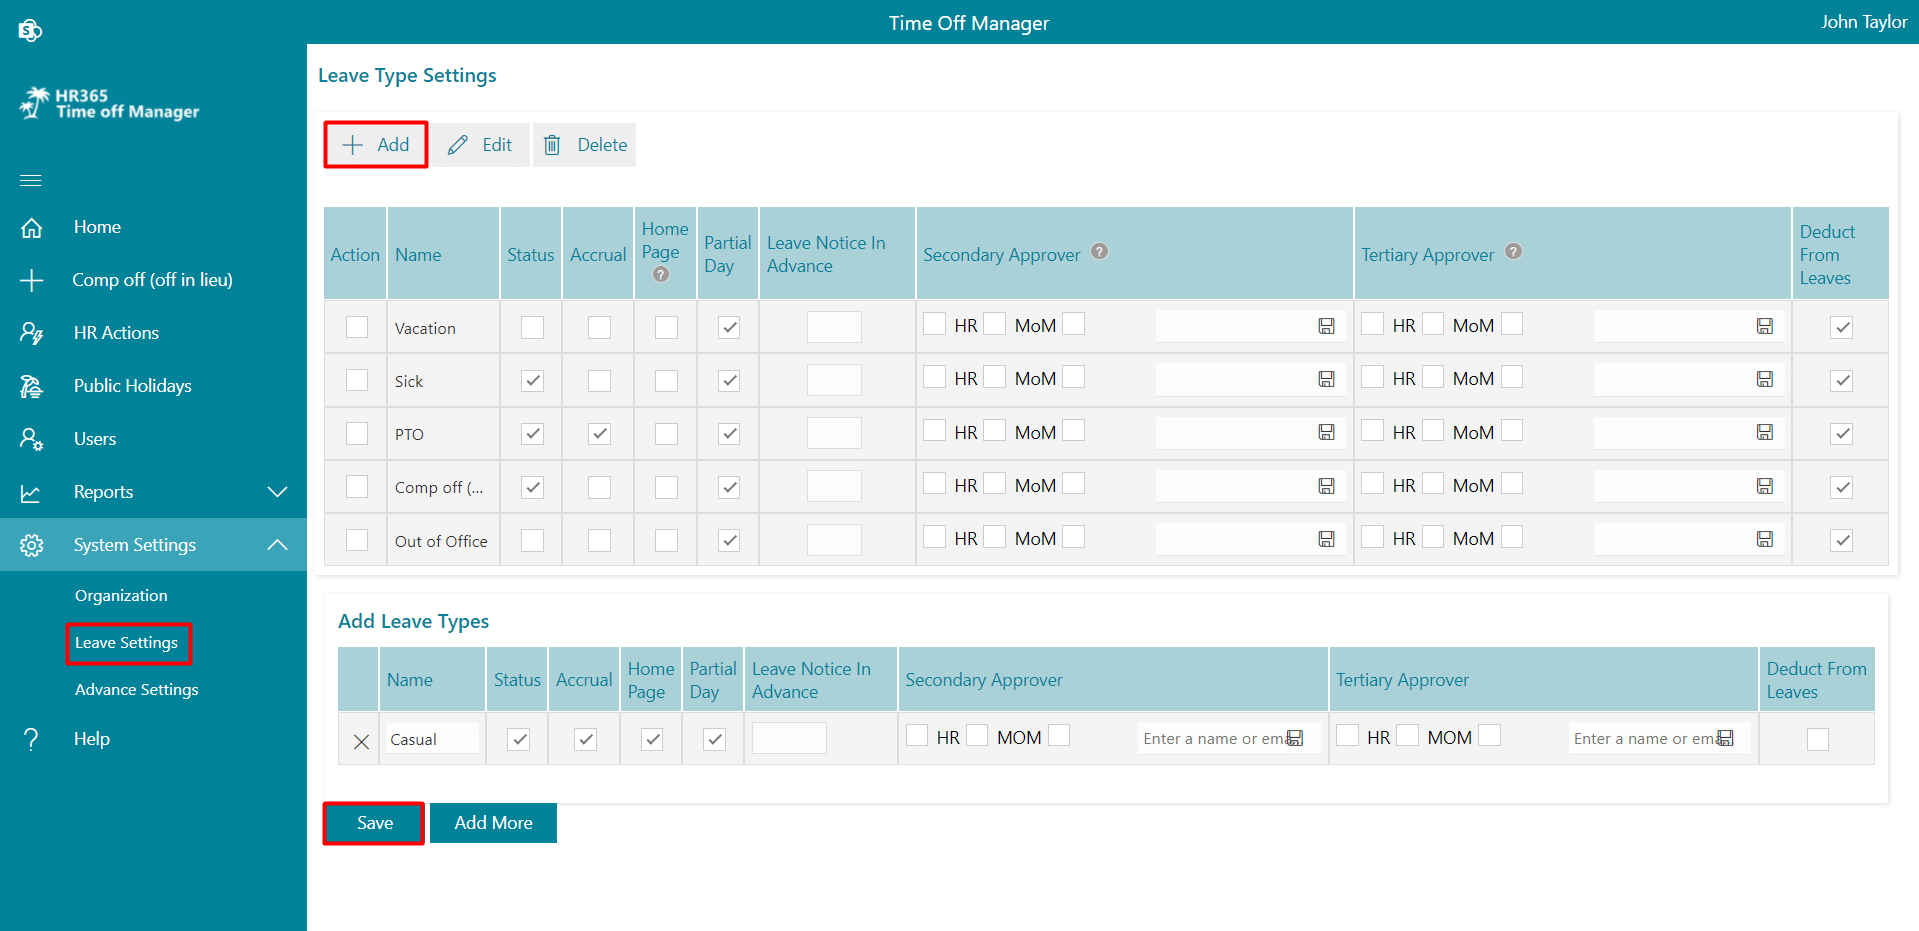
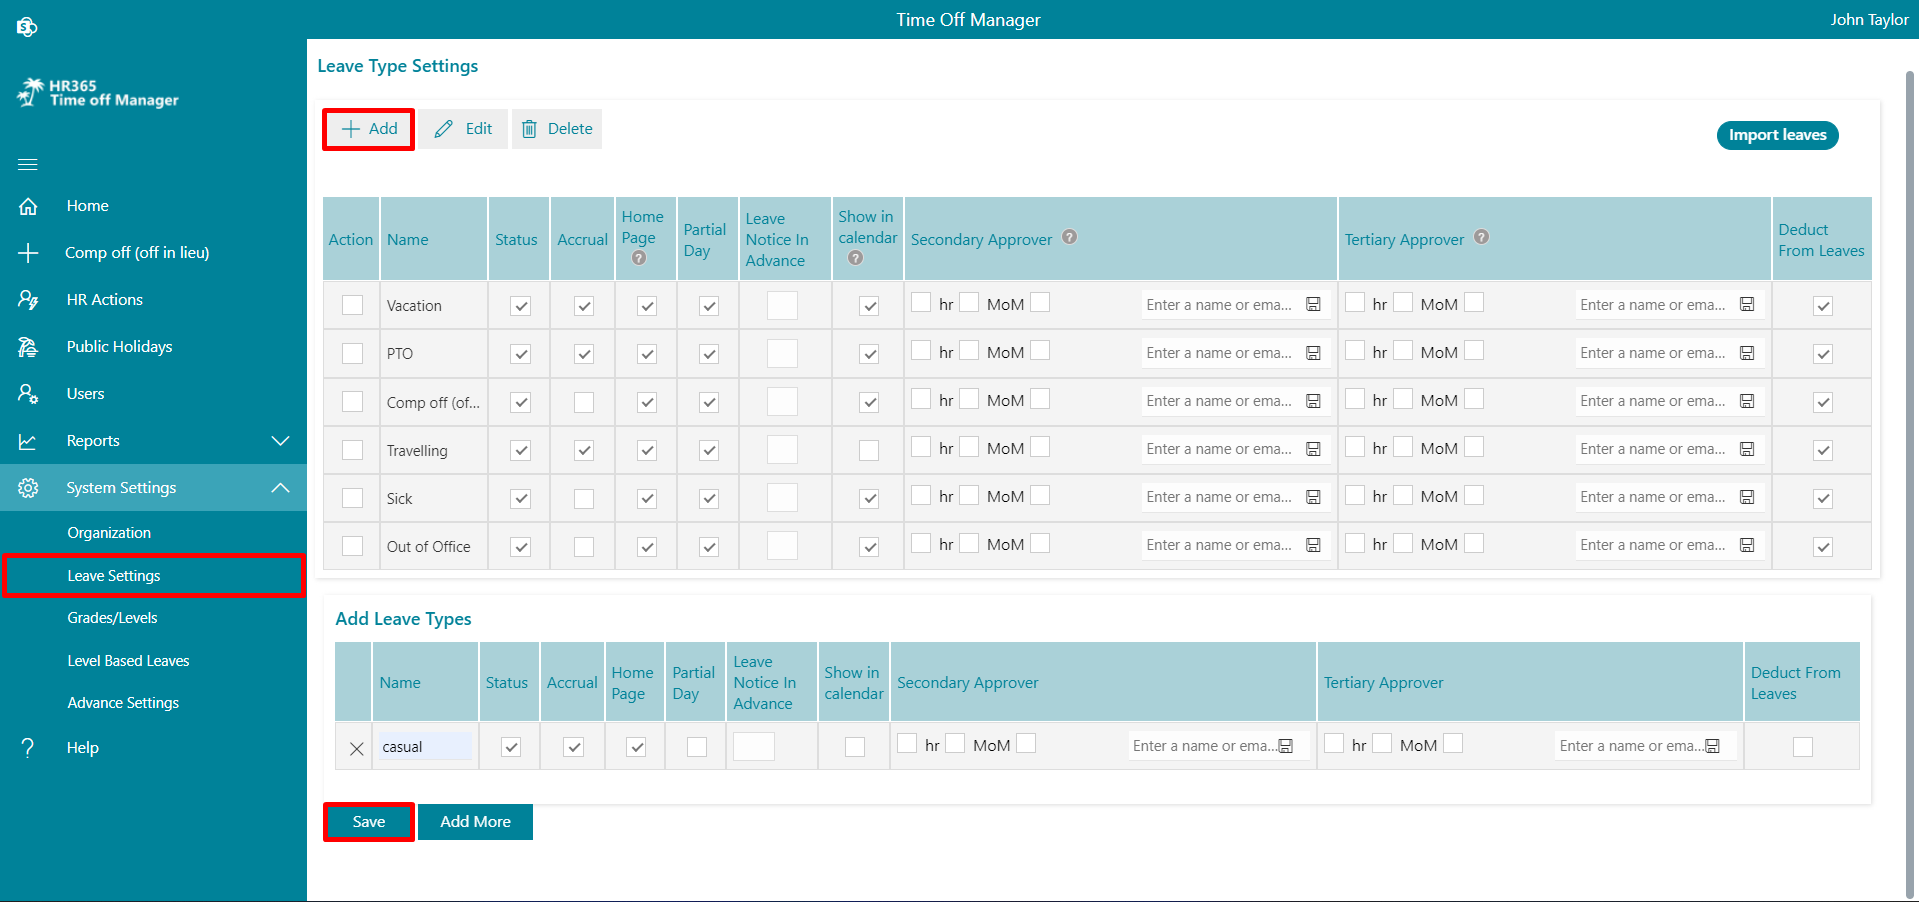
update

diff --git a/employee-vacation-tracker-time-off-manager/classic/admin/settings/index.html b/employee-vacation-tracker-time-off-manager/classic/admin/settings/index.html
@@ -132,6 +132,10 @@
                 <br>
                 <li><b>Leave Notice in Advance:</b>&ensp; You can enter the number of days you want the leaves to applied in advance.</li>
                 <br>
+                <li><b>Show in calendar:</b>&ensp;Show/hide applied leaves on the calendar of apply leave form from the leave settings.</li>
+                <br>
+                <img src="show_cal.png" onclick="openModal('show_cal.png')" alt="" width="100%">
+              <br><br>
                 <li><b>Secondary Approver:</b>&ensp;You can select HR or manager of manager or any user as seconder approver. Select HR or MoM check box and enable switch. You can type person in people picker box, click on save button and enable switch.
                  If Fist approver (i.e., Manager of user) approve the leave request, request goes to second approver. 
                  <div class="notices note">
@@ -144,6 +148,10 @@
                  
                   </li>
                 <li> <b>Tertiary approver:</b> &ensp;You can select HR or manager of manager or any selected email id as tertiary approver</li>
+                <li><b>Import leaves:</b>&ensp;You can import leaves from the Leave Type Settings (Can add balance leaves of last year through the bulk import).</li>
+                <br>
+                <img src="import_leave.png" onclick="openModal('import_leave.png')" alt="" width="100%">
+              <br><br>
             </ol>
            
      
@@ -301,9 +309,9 @@ Casual Leaves = 24.
                <br>
                <img src="approver.png" onclick="openModal('approver.png')" alt="" width="100%">
                <br><br>
-               <li><h6>Calculate leaves based on hourly basis</h6>Here, you can calculate leaves in hourly basis. If you want to enable it, just select check box and click on save icon.</li>
+               <li><h6>Calculate partial leave</h6>Here, you can calculate partial leave (Can select the partial day on either an hourly basis or half/quarter-day from the advanced setting).</li>
                <br>
-               <img src="hourly.png" onclick="openModal('hourly.png')" alt="" width="100%">
+               <img src="calculate_partial.png" onclick="openModal('calculate_partial.png')" alt="" width="100%">
                <br><br>
                <li><h6>Second level approval for leave cancellation</h6>If this is enabled, If you want second-level approval for leave cancellation. </li>
                <br>
@@ -317,13 +325,21 @@ Casual Leaves = 24.
                <br>
                <img src="recurrence.png" onclick="openModal('recurrence.png')" alt="" width="100%">
                <br><br>
-               <li><h6>Color code in calendar by</h6>Here, you can define color in calendar bases on leave satus and leave type. If you want to enable it, just select check box and click on save icon.</li>
+               <li><h6>Color code in calendar by</h6>Here, you can define color in calendar bases on leave status and leave type. If you want to enable it, just select check box and click on save icon.</li>
                <br>
                <img src="color_c.png" onclick="openModal('color_c.png')" alt="" width="100%">
                <br><br>
                <li><h6>Leaves Reordering</h6>From here you can reorder the leave tabs of leave request form.</li>
                <br>
                <img src="color_code.png" onclick="openModal('color_code.png')" alt="" width="100%">
+               <br><br>
+               <li><h6>Language selection as browser default language</h6>Here, you can enable the toggle for the language selection as browser default language.</li>
+               <br>
+               <img src="language.png" onclick="openModal('language.png')" alt="" width="100%">
+               <br><br>
+               <li><h6>Language selection in case browser default language is not detected</h6>Here, you can select language in case browser default language is not detected</li>
+               <br>
+               <img src="language_select.png" onclick="openModal('language_select.png')" alt="" width="100%">
                <br><br>
                <li><h6>Email templates </h6>Here, you can conifure email notification body and add more placeholders.</li>
                <br>
@@ -347,6 +363,7 @@ Casual Leaves = 24.
            </ol>
 
         </div>
+  
         <p class="post-meta border-bottom pb-3 mb-0 mt-3" id="date">
                                 <nav class="pagination mt-3">
                                     <a class="nav nav-prev" href="../reports/"
